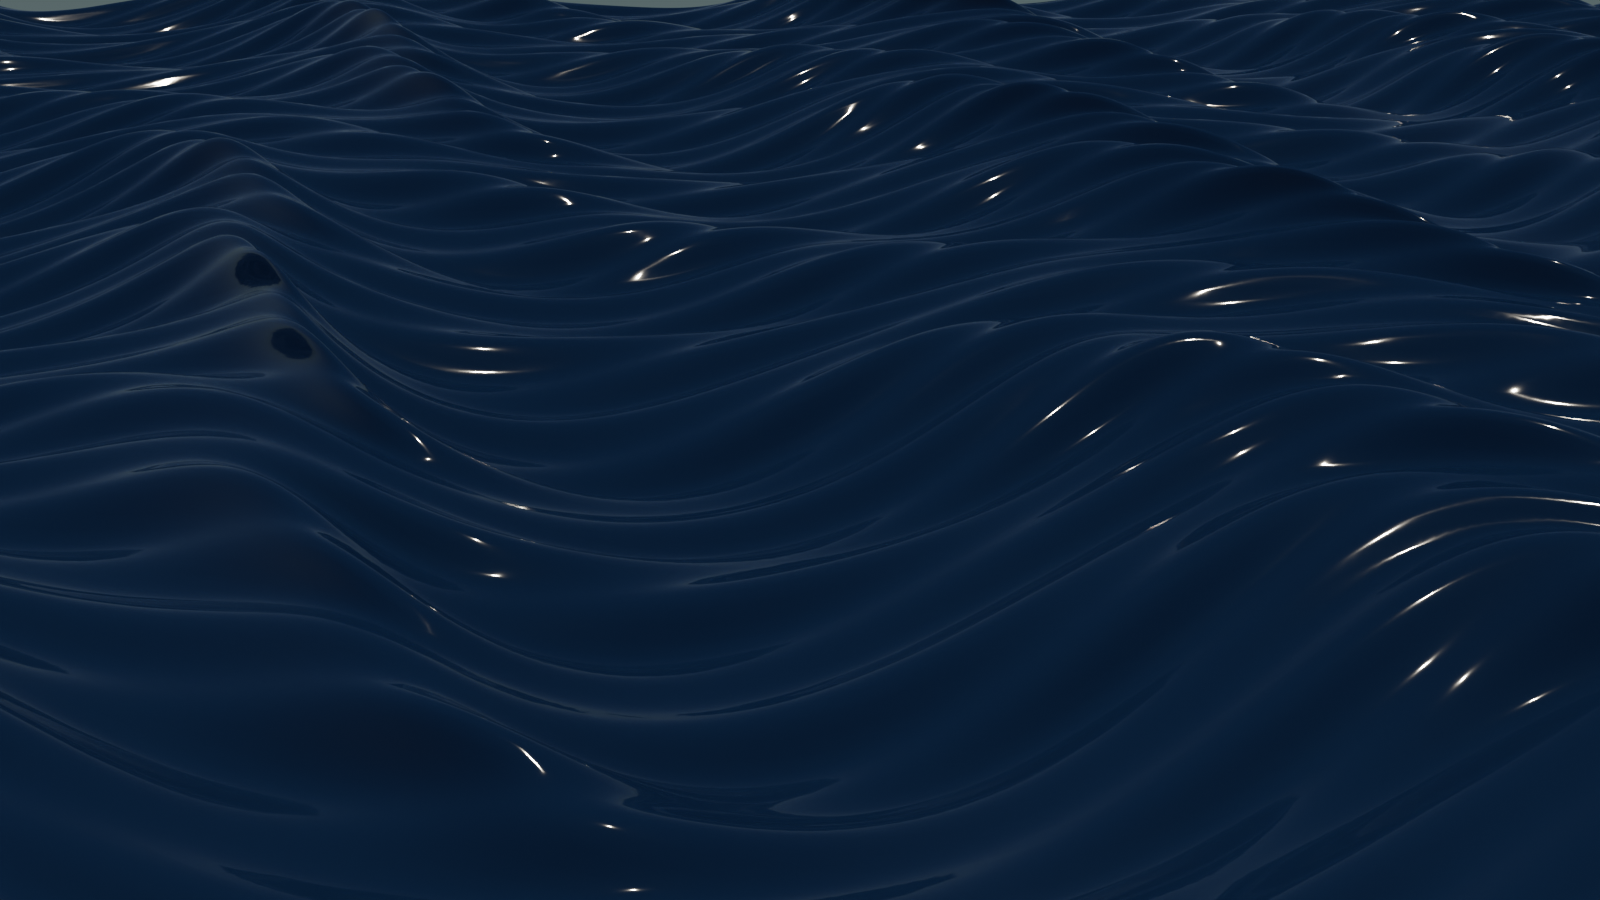
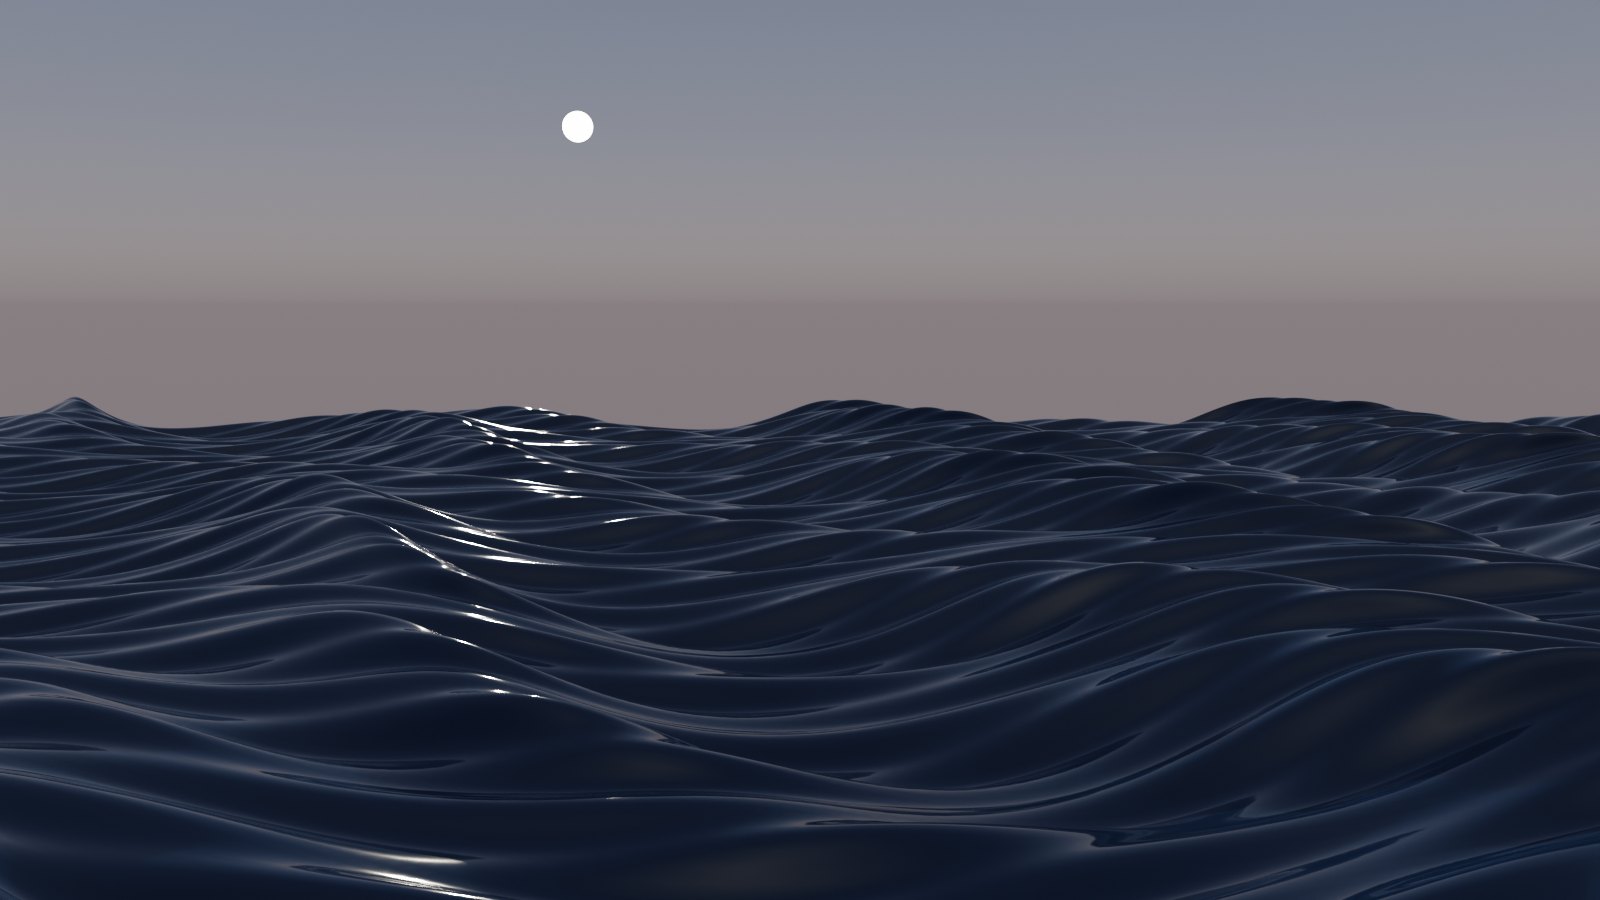
HD renders v2: horizon-safe cameras, sun/moon disks, warm glitter paths
- ocean_render.py: emissive sun/moon disk (gunes_vektoru), SUN lamp aligned
  via to_track_quat (old euler convention pointed near-zenith), exposure bug
  fixed (was only applied on GPU failure), sky turbidity wiring, optional
  water color/roughness, Filmic look, HIZLI=1 preview mode
- 5 scenes re-shot: gunbatimi hero (golden path), gunbatimi_v2, storm,
  tropical (teal water), moonlight (silver column)
- README: gallery rebuilt, no duplicate images, 2D GIF archive section

diff --git a/ocean_render.py b/ocean_render.py
@@ -46,6 +46,46 @@ def kamera_kur(konum, hedef, lens=50):
     yon = Vector(hedef) - Vector(konum)
     co.rotation_euler = yon.to_track_quat("-Z", "Y").to_euler()
     bpy.context.scene.camera = co
+    print(f"  [kamera] konum={tuple(round(x,2) for x in konum)} "
+          f"hedef={tuple(round(x,2) for x in hedef)} lens={lens}")
+
+
+def gunes_vektoru(el_rad, az_rad):
+    """Ufuktan yukselis acisiyla gunes yonu (birim, sahne->gunes)."""
+    return Vector((math.cos(el_rad) * math.sin(az_rad),
+                   -math.cos(el_rad) * math.cos(az_rad),
+                   math.sin(el_rad)))
+
+
+def govcem_diski(cfg, cam_konum):
+    """Gunes/ay diski: SUN lambasiyla ayni aci vektorunde emissive mesh."""
+    d = cfg["sun"].get("disk")
+    if not d:
+        return
+    el = math.radians(cfg["sun"]["elevation_deg"])
+    az = math.radians(cfg["sun"]["azimuth_deg"])
+    dist = d.get("distance", 260)
+    merkez = gunes_vektoru(el, az) * dist
+    bpy.ops.mesh.primitive_circle_add(vertices=96, radius=d.get("radius", 2.5),
+                                      fill_type="NGON", location=merkez)
+    disk = bpy.context.active_object
+    disk.name = "govdem_diski"
+    yon = Vector(cam_konum) - merkez
+    disk.rotation_euler = yon.to_track_quat("Z", "Y").to_euler()
+
+    m = bpy.data.materials.new("DiskMat")
+    m.use_nodes = True
+    nt = m.node_tree
+    nt.nodes.clear()
+    em = nt.nodes.new("ShaderNodeEmission")
+    renk = list(d.get("color", (1.0, 0.6, 0.3)))
+    if len(renk) == 3:
+        renk.append(1.0)
+    em.inputs["Color"].default_value = renk
+    em.inputs["Strength"].default_value = d.get("strength", 40.0)
+    out = nt.nodes.new("ShaderNodeOutputMaterial")
+    nt.links.new(em.outputs["Emission"], out.inputs["Surface"])
+    disk.data.materials.append(m)
 
 
 # ---------------------------------------------------------------- Gerstner mesh
@@ -135,14 +175,20 @@ def sahne_kur(cfg):
         sc.cycles.device = "GPU"
     except Exception as e:
         print("  [uyari] GPU:", e)
-        sc.view_settings.exposure = cfg["render"].get("exposure", 0.5)
     sc.cycles.samples = cfg["render"].get("samples", 128)
     sc.cycles.use_denoising = True
     sc.render.resolution_x = cfg["render"].get("width", 1600)
     sc.render.resolution_y = cfg["render"].get("height", 900)
     sc.view_settings.view_transform = "Filmic"
+    sc.view_settings.exposure = cfg["render"].get("exposure", 0.0)
+    look = cfg["render"].get("look")
+    if look:
+        try:
+            sc.view_settings.look = look
+        except Exception as e:
+            print(f"  [uyari] look '{look}': {e}")
 
-    # dunya: Nishita gokyuzu
+    # dunya: Hosek-Wilkie gokyuzu
     dunya = bpy.data.worlds.new("Gokyuzu")
     sc.world = dunya
     dunya.use_nodes = True
@@ -154,6 +200,14 @@ def sahne_kur(cfg):
     sun_azim = math.radians(cfg["sun"]["azimuth_deg"])
     sky.sun_elevation = sun_elev
     sky.sun_rotation = sun_azim
+    skycfg = cfg.get("sky", {})
+    for attr, key, varsayilan in (("turbidity", "turbidity", 2.2),
+                                  ("dust_density", "dust", 1.0)):
+        try:
+            setattr(sky, attr, skycfg.get(key, varsayilan))
+        except Exception as e:
+            print(f"  [uyari] sky.{attr}: {e}")
+    sky.sun_rotation = sun_azim + math.radians(skycfg.get("az_offset", 0))
     bg_node = nt.nodes.new("ShaderNodeBackground")
     bg_node.inputs["Strength"].default_value = cfg["sky"].get("strength", 1.0)
     out = nt.nodes.new("ShaderNodeOutputWorld")
@@ -164,10 +218,10 @@ def sahne_kur(cfg):
     sun_data = bpy.data.lights.new("gunes", "SUN")
     sun_data.energy = cfg["sun"].get("strength", 3.5)
     sun_data.angle = math.radians(1.2)
-    sun_data.color = (1.0, 0.9, 0.75)
+    sun_data.color = tuple(cfg["sun"].get("color", (1.0, 0.9, 0.75)))
     sun_obj = bpy.data.objects.new("gunes_isigi", sun_data)
     bpy.context.collection.objects.link(sun_obj)
-    sun_obj.rotation_euler = (sun_elev, 0, sun_azim)
+    sun_obj.rotation_euler = gunes_vektoru(sun_elev, sun_azim).to_track_quat("Z", "Y").to_euler()
 
     return sc
 
@@ -219,8 +273,9 @@ def okyanus(cfg):
     m.use_nodes = True
     nt = m.node_tree
     bsdf = nt.nodes["Principled BSDF"]
-    bsdf.inputs["Base Color"].default_value = (0.004, 0.025, 0.07, 1)
-    bsdf.inputs["Roughness"].default_value = 0.055
+    renk = oc.get("color", (0.004, 0.025, 0.07))
+    bsdf.inputs["Base Color"].default_value = (renk[0], renk[1], renk[2], 1)
+    bsdf.inputs["Roughness"].default_value = oc.get("roughness", 0.055)
     bsdf.inputs["IOR"].default_value = 1.33
     noise = nt.nodes.new("ShaderNodeTexNoise")
     noise.inputs["Scale"].default_value = 18.0
@@ -246,6 +301,11 @@ def main():
     a = ap.parse_args(args)
 
     cfg = json.load(open(a.scene, encoding="utf-8"))
+    if os.environ.get("HIZLI") == "1":
+        cfg["render"] = {**cfg.get("render", {}), "width": 800, "height": 450,
+                         "samples": 40}
+        cfg["output"] = "/tmp/onizleme_" + os.path.basename(a.scene).replace(".json", ".png")
+        print("  [HIZLI] onizleme modu: 800x450 / 40 sample ->", cfg["output"])
     temiz()
 
     sc = sahne_kur(cfg)
@@ -253,6 +313,7 @@ def main():
 
     cam = cfg["camera"]
     kamera_kur(cam["position"], cam["look_at"], cam.get("lens", 50))
+    govcem_diski(cfg, cam["position"])
 
     out = cfg["output"]
     os.makedirs(os.path.dirname(out) or ".", exist_ok=True)

diff --git a/README.md b/README.md
@@ -6,35 +6,34 @@
 
 ![gunbatimi](renders/gunbatimi_hd.png)
 
+*Blender Cycles 3D Gerstner render — golden-hour glitter column.*
+
 ## 🖼 Gallery / Galeri
 
-### 🌕 Ay — moonlight
-![ay](renders/ay.gif)
-Full moon, silver glitter path, four-wave swell. — *Dolunay, gümüş glitter yolu, dört dalgalı deniz.*
+### 🌅 Gün Batımı — sunset · `ocean_render.py`
+![gunbatimi v2](renders/gunbatimi_v2_hd.png)
+Low sun on the horizon, its light path breaking across the swell. — *Ufukta alçak güneş, ışık yolu dalgalarda kırılarak geliyor.*
 
-### 🌅 Gün Batımı — sunset
-![gunbatimi](renders/gunbatimi_hd.png)
-Purple-to-orange sky, the sun sinking into its own glitter column. — *Mordan turuncuya gökyüzü, güneş kendi ışık sütununa gömülüyor.*
-
-### ⚡ Fırtına — storm
+### ⚡ Fırtına — storm · `ocean_render.py`
 ![firtina](renders/firtina_hd.png)
-Five stacked wave trains, foam caps on every crest. — *Beş üst üste dalga treni, her tepede köpük.*
+Five stacked wave trains under a turbid sky, whitecaps on every crest. — *Bulanık gökyüzü altında beş üst üste dalga treni, her tepede köpük.*
 
-### 🏝 Sakin — calm
-![sakin](renders/sakin.gif)
-Tropical morning: three gentle swells, glassy water. — *Tropikal sabah: üç nazik dalga, camsı deniz.*
-
-### 🌙 Ay Gecesi / Moonlight — `ocean_render.py -- --scene scenes/ay_gece.json`
+### 🌙 Ay Gecesi — moonlight · `ocean_render.py`
 ![ay_gece](renders/ay_gece_hd.png)
-Subtle moon reflections on dark water. — *Koyu suda soluk ay yansimalari.*
+A full moon pouring a silver glitter column onto dark water. — *Dolunay koyu suya gümüş bir ışık sütunu döküyor.*
 
-### 🪩 Tropikal — [`scenes/tropikal.json`](scenes/tropikal.json)
+### 🏝 Tropikal — tropical · `ocean_render.py`
 ![tropikal](renders/tropikal_hd.png)
-Crystal-clear tropical ocean with gentle rolling swells. — *Billur netliginde tropik okyanus, nazik dokuli dalgalar.*
+Crystal-clear teal water, three gentle swells, glassy morning light. — *Billur berraklığında turkuaz su, üç nazik dalga, camsı sabah ışığı.*
 
-### 🌅 Gunbatimi HD — [`scenes/gunbatimi_hd.json`](scenes/gunbatimi_hd.json)
-![gunbatimi_hd](renders/gunbatimi_hd.png)
-Deep blue 3D Gerstner waves, camera pulled back for proper perspective. — *Derin mavi 3B Gerstner dalgalar, kamera geri cekilmis perspektif.*
+### 🎞 2D motor — döngülü GIF'ler (`ocean.py`)
+
+Aynı fizik motorunun piksel-render hali: her kare NumPy ile hesaplanır.
+
+| | | |
+|---|---|---|
+| ![ay](renders/ay.gif) | ![sakin](renders/sakin.gif) | ![gunbatimi](renders/gunbatimi.gif) |
+| 🌕 Ay | 🏝 Sakin | 🌅 Gün Batımı |
 
 ## 🧱 Physics / Fizik
 
@@ -62,8 +61,15 @@ python3 tests/verify.py
 
 ```bash
 pip install numpy
+# 2D motor — döngülü GIF
 python3 ocean.py --scene scenes/gunbatimi.json
+
+# 3D Cycles render (Blender 4.2+ / 5.x)
+blender --background --python ocean_render.py -- --scene scenes/ay_gece.json
+HIZLI=1 blender --background --python ocean_render.py -- --scene scenes/ay_gece.json  # hızlı önizleme
 ```
+
+Sahne JSON'ları: `ocean` (dalga trenleri, choppiness, su rengi), `sun` (elevation/azimuth, lamba rengi, `disk`), `sky` (turbidity, strength, az_offset), `camera` (position/look_at/lens), `render` (çözünürlük, samples, exposure, look).
 
 ## 🧪 Why / Neden
 
